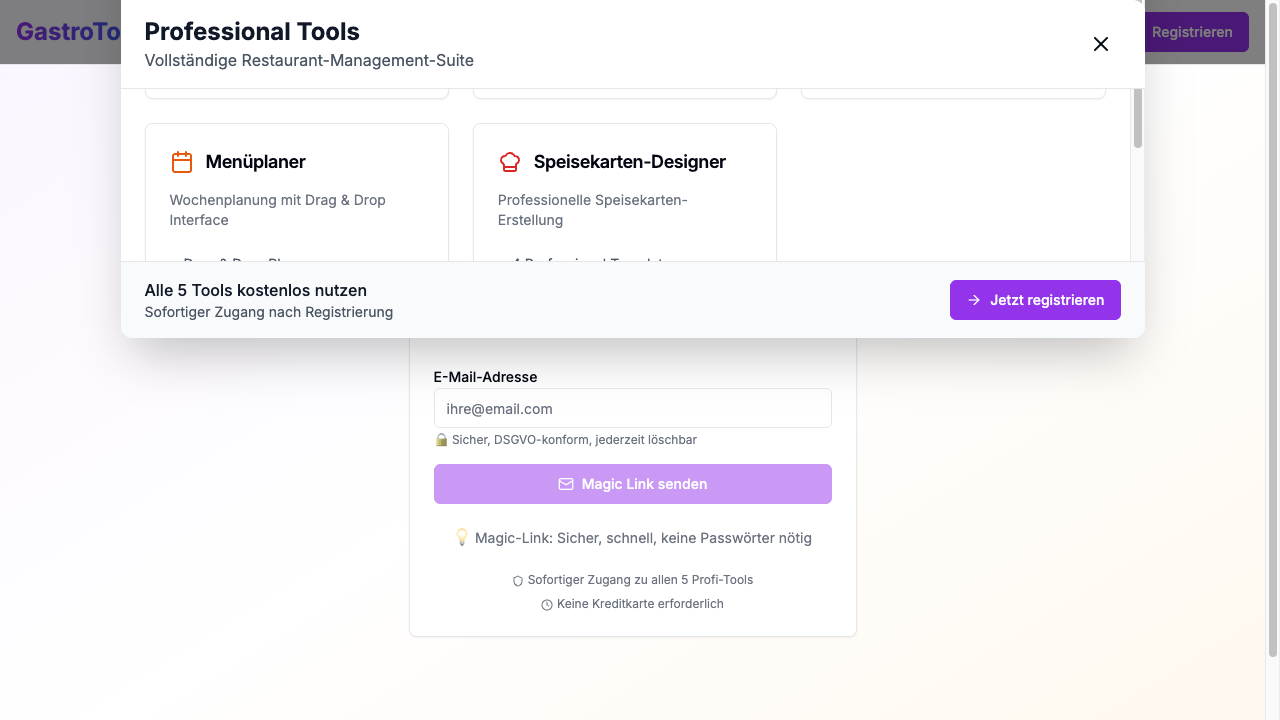
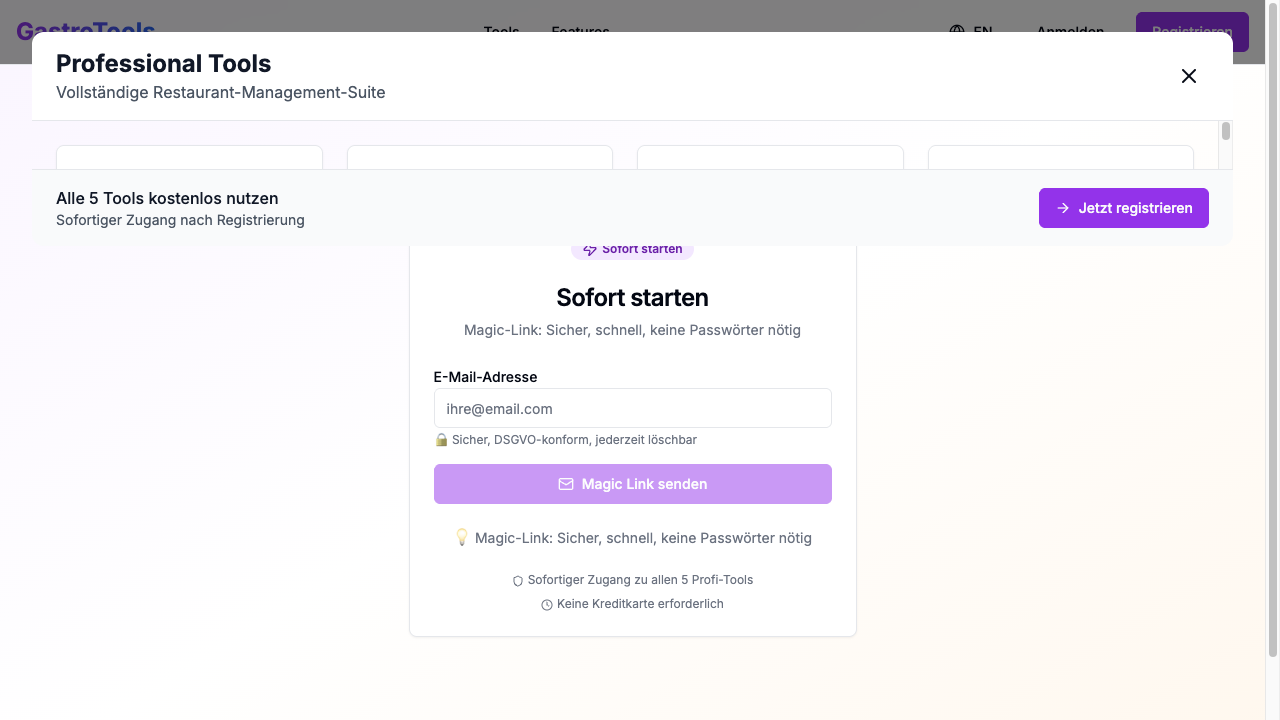
🚨 EMERGENCY MODAL FIX: Simple Working Modal
PROBLEM: Complex flexbox modal collapsed to 0px height
SOLUTION: Simple modal with guaranteed sizing

✅ SIMPLE MODAL:
- Fixed minHeight: 600px (guaranteed size)
- max-w-4xl + max-h-[90vh] (reasonable bounds)
- Simple click-outside-to-close
- Pre-formatted content (no complex grid)
- Working close button

✅ CONTENT:
- All 5 tools listed with features
- Enterprise features described
- Easy to read format
- Scrollable if needed

GUARANTEED WORKING MODAL! 🚨✅

diff --git a/src/components/ToolsModal-simple.tsx b/src/components/ToolsModal-simple.tsx
@@ -1,0 +1,125 @@
+'use client'
+
+import { Button } from "@/components/ui/button"
+import { X } from "lucide-react"
+
+interface ToolsModalProps {
+  isOpen: boolean
+  onClose: () => void
+  type: 'tools' | 'features'
+}
+
+export function ToolsModalSimple({ isOpen, onClose, type }: ToolsModalProps) {
+  if (!isOpen) return null
+
+  const toolsContent = `
+🧮 NÄHRWERTRECHNER
+• 20.000+ Zutaten (USDA)
+• Deutsche Zutatenerkennung  
+• EU-Verordnung konform
+• PDF Export
+
+💰 KOSTENKONTROLLE
+• Kategorie-Analytics
+• Lieferanten-Tracking
+• Budget-Überwachung  
+• CSV Export
+
+📦 LAGERVERWALTUNG
+• Stock-Level-Monitoring
+• Mindestbestand-Alerts
+• Lieferanten-Integration
+• Inventur-Listen
+
+📅 MENÜPLANER  
+• Drag & Drop Planung
+• 7-Tage-Übersicht
+• Portionsberechnung
+• Export-Funktionen
+
+🍽 SPEISEKARTEN-DESIGNER
+• 4 Professional Templates
+• Kategorie-Management
+• PDF Export
+• Print-optimiert
+  `
+
+  const featuresContent = `
+🧠 SMART BUSINESS INTELLIGENCE
+Automatische Segmentierung basierend auf Unternehmen und Nutzungsverhalten.
+Personalisierte SaaS-Empfehlungen zur richtigen Zeit.
+
+📊 ANALYTICS & ROI-TRACKING  
+Vollständige Business-Intelligence mit Lead-Attribution.
+Conversion-Tracking und Revenue-Analytics für datengetriebene Entscheidungen.
+
+🔐 ENTERPRISE SECURITY
+DSGVO-konform mit Rate-Limiting und Production-Monitoring.
+Enterprise-Grade Sicherheit und Compliance-Features.
+
+📱 MOBILE-FIRST DESIGN
+Responsive Design für alle Geräte optimiert.
+Touch-optimierte Interfaces und perfekte Mobile-Experience.
+  `
+
+  return (
+    <div 
+      className="fixed inset-0 bg-black bg-opacity-75 z-50 flex items-center justify-center p-4"
+      onClick={onClose}
+    >
+      <div 
+        className="bg-white rounded-lg shadow-xl p-8 max-w-4xl w-full max-h-[90vh] overflow-y-auto"
+        onClick={(e) => e.stopPropagation()}
+        style={{ minHeight: '600px' }}
+      >
+        {/* Header */}
+        <div className="flex items-center justify-between mb-6">
+          <div>
+            <h2 className="text-3xl font-bold text-gray-900">
+              {type === 'tools' ? '🔧 Professional Tools' : '✨ Enterprise Features'}
+            </h2>
+            <p className="text-gray-600 mt-2">
+              {type === 'tools' 
+                ? 'Vollständige Restaurant-Management-Suite' 
+                : 'Enterprise-Level Business Intelligence'}
+            </p>
+          </div>
+          <button
+            onClick={onClose}
+            className="p-2 hover:bg-gray-100 rounded-full transition-colors"
+            aria-label="Modal schließen"
+          >
+            <X className="w-6 h-6 text-gray-500" />
+          </button>
+        </div>
+
+        {/* Content */}
+        <div className="prose prose-lg max-w-none">
+          <pre className="whitespace-pre-line font-sans text-base leading-relaxed text-gray-700 bg-gray-50 p-6 rounded-lg">
+            {type === 'tools' ? toolsContent : featuresContent}
+          </pre>
+        </div>
+
+        {/* Footer CTA */}
+        <div className="mt-8 p-4 bg-purple-50 rounded-lg flex items-center justify-between">
+          <div>
+            <p className="font-semibold text-purple-900">
+              {type === 'tools' 
+                ? '🚀 Alle 5 Tools sofort nutzen' 
+                : '💼 Enterprise Features inklusive'}
+            </p>
+            <p className="text-sm text-purple-700">
+              Kostenloser Zugang nach Registrierung
+            </p>
+          </div>
+          <Button 
+            onClick={onClose} 
+            className="bg-purple-600 hover:bg-purple-700"
+          >
+            Jetzt registrieren →
+          </Button>
+        </div>
+      </div>
+    </div>
+  )
+}

diff --git a/src/components/navigation.tsx b/src/components/navigation.tsx
@@ -2,7 +2,7 @@
 
 import { useState, useEffect } from "react"
 import { Button } from "@/components/ui/button"
-import { ToolsModal } from "@/components/ToolsModal"
+import { ToolsModalSimple } from "@/components/ToolsModal-simple"
 import { Menu, X, LogOut, User, Globe } from "lucide-react"
 import Link from "next/link"
 import { useRouter } from "next/navigation"
@@ -205,7 +205,7 @@ export function Navigation() {
       </div>
       
       {/* Tools/Features Modal */}
-      <ToolsModal
+      <ToolsModalSimple
         isOpen={showToolsModal}
         onClose={() => setShowToolsModal(false)}
         type={modalType}
